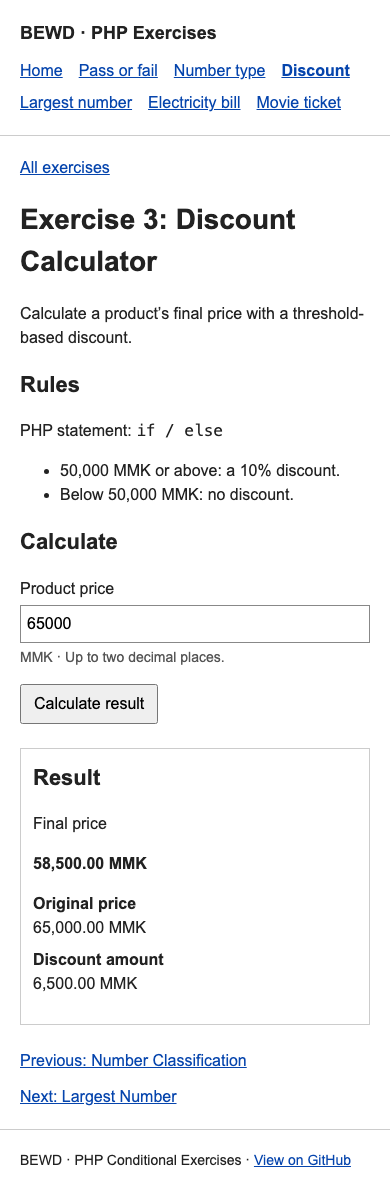
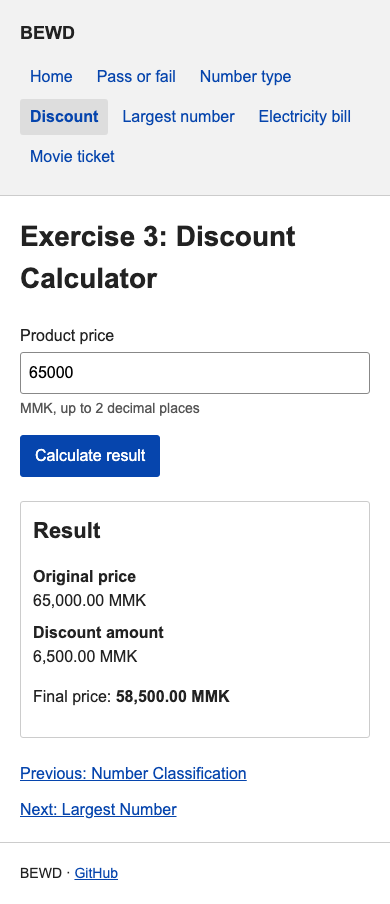
style: trim page content and refine basic styling

diff --git a/projects/php-conditionals/public/assets/css/styles.css b/projects/php-conditionals/public/assets/css/styles.css
@@ -10,33 +10,34 @@ body {
 }
 
 .container { max-width: 900px; margin: 0 auto; padding: 20px; }
-h1 { font-size: 28px; }
+h1 { font-size: 28px; margin: 0 0 24px; }
 h2 { font-size: 22px; }
 a { color: #0645ad; }
 :focus-visible { outline: 2px solid #0645ad; outline-offset: 3px; }
 
-.site-header { border-bottom: 1px solid #ccc; }
+.site-header { background: #f2f2f2; border-bottom: 1px solid #ccc; }
 .site-title { margin: 0 0 12px; font-size: 18px; font-weight: bold; }
-.exercise-nav { display: flex; flex-wrap: wrap; gap: 8px 16px; }
-.exercise-nav a[aria-current="page"] { font-weight: bold; text-decoration: underline; }
+.exercise-nav { display: flex; flex-wrap: wrap; gap: 4px; }
+.exercise-nav a { padding: 6px 10px; border-radius: 3px; text-decoration: none; }
+.exercise-nav a:hover { text-decoration: underline; }
+.exercise-nav a[aria-current="page"] { background: #ddd; font-weight: bold; }
 .site-footer { border-top: 1px solid #ccc; font-size: 14px; }
 .site-footer p { margin: 0; }
 
 .exercise-list { padding-left: 24px; }
 .exercise-list li { margin-bottom: 16px; }
-.exercise-list p { margin: 4px 0; }
 .form-field { margin-bottom: 16px; }
 .form-field label { display: block; margin-bottom: 4px; }
-.form-field input { width: 100%; max-width: 360px; padding: 6px; border: 1px solid #888; font: inherit; }
+.form-field input { width: 100%; max-width: 360px; padding: 8px; border: 1px solid #888; border-radius: 3px; font: inherit; }
 .field-hint { margin: 4px 0; font-size: 14px; color: #555; }
-.field-error, .error-summary { color: #a00; }
+.field-error { color: #a00; }
 .field-error { margin: 4px 0; }
 .form-field input[aria-invalid="true"] { border-color: #a00; }
-button { padding: 6px 12px; font: inherit; cursor: pointer; }
+button { padding: 8px 14px; background: #0645ad; color: white; border: 1px solid #0645ad; border-radius: 3px; font: inherit; cursor: pointer; }
+button:hover { background: #053987; }
 
-.result-panel { border: 1px solid #ccc; margin-top: 24px; padding: 12px; overflow-wrap: anywhere; }
+.result-panel { max-width: 480px; border: 1px solid #ccc; border-radius: 3px; margin-top: 24px; padding: 12px; overflow-wrap: anywhere; }
 .result-panel h2 { margin-top: 0; }
-.result-value { font-weight: bold; }
 .result-rows dt { font-weight: bold; }
 .result-rows dd { margin: 0 0 8px; }
 .page-navigation { display: flex; flex-wrap: wrap; justify-content: space-between; gap: 12px; margin-top: 24px; }

diff --git a/projects/php-conditionals/src/exercises.php b/projects/php-conditionals/src/exercises.php
@@ -2,7 +2,7 @@
 
 declare(strict_types=1);
 
-/** The catalogue supplies navigation, forms, and rule explanations from one place. */
+/** The catalogue supplies navigation and form definitions from one place. */
 function exercise_catalogue(): array
 {
     $integer = ['type' => 'integer'];
@@ -10,49 +10,36 @@ function exercise_catalogue(): array
     return [
         'pass-or-fail' => [
             'number' => '01', 'title' => 'Pass or Fail', 'nav' => 'Pass or fail',
-            'description' => 'See how one condition decides whether a student passes the exam.',
-            'syntax' => 'if / else', 'calculator' => 'calculate_pass_or_fail',
-            'rules' => ['A mark of 40 or above is a pass.', 'A mark below 40 is a fail.'],
-            'fields' => ['mark' => $integer + ['label' => 'Student mark', 'hint' => 'Enter a whole number from 0 to 100.', 'placeholder' => 'e.g. 75', 'min' => 0, 'max' => 100]],
+            'calculator' => 'calculate_pass_or_fail',
+            'fields' => ['mark' => $integer + ['label' => 'Student mark', 'hint' => '0–100, whole number', 'placeholder' => 'e.g. 75', 'min' => 0, 'max' => 100]],
         ],
         'number-classification' => [
             'number' => '02', 'title' => 'Number Classification', 'nav' => 'Number type',
-            'description' => 'Find out whether an integer is positive, negative, or zero.',
-            'syntax' => 'if / elseif / else', 'calculator' => 'calculate_number_classification',
-            'rules' => ['Greater than 0: Positive Number.', 'Less than 0: Negative Number.', 'Equal to 0: Zero.'],
-            'fields' => ['number' => $integer + ['label' => 'Your number', 'hint' => 'Enter any signed whole number.', 'placeholder' => 'e.g. −12']],
+            'calculator' => 'calculate_number_classification',
+            'fields' => ['number' => $integer + ['label' => 'Your number', 'hint' => 'Signed whole number', 'placeholder' => 'e.g. -12']],
         ],
         'discount-calculator' => [
             'number' => '03', 'title' => 'Discount Calculator', 'nav' => 'Discount',
-            'description' => 'Calculate a product’s final price with a threshold-based discount.',
-            'syntax' => 'if / else', 'calculator' => 'calculate_discount',
-            'rules' => ['50,000 MMK or above: a 10% discount.', 'Below 50,000 MMK: no discount.'],
-            'fields' => ['price' => ['type' => 'money', 'label' => 'Product price', 'hint' => 'MMK · Up to two decimal places.', 'placeholder' => 'e.g. 65000', 'min' => 0]],
+            'calculator' => 'calculate_discount',
+            'fields' => ['price' => ['type' => 'money', 'label' => 'Product price', 'hint' => 'MMK, up to 2 decimal places', 'placeholder' => 'e.g. 65000', 'min' => 0]],
         ],
         'largest-number' => [
             'number' => '04', 'title' => 'Largest Number', 'nav' => 'Largest number',
-            'description' => 'Compare two integers and find the larger one, or an exact match.',
-            'syntax' => 'if / else', 'calculator' => 'calculate_largest_number',
-            'rules' => ['Compare the first number with the second.', 'If they match, display “Both numbers are equal”.'],
+            'calculator' => 'calculate_largest_number',
             'fields' => [
-                'num1' => $integer + ['label' => 'First number', 'hint' => 'A signed whole number.', 'placeholder' => 'e.g. 24'],
-                'num2' => $integer + ['label' => 'Second number', 'hint' => 'A signed whole number.', 'placeholder' => 'e.g. 18'],
+                'num1' => $integer + ['label' => 'First number', 'hint' => 'Signed whole number', 'placeholder' => 'e.g. 24'],
+                'num2' => $integer + ['label' => 'Second number', 'hint' => 'Signed whole number', 'placeholder' => 'e.g. 18'],
             ],
         ],
         'electricity-bill' => [
             'number' => '05', 'title' => 'Electricity Bill', 'nav' => 'Electricity bill',
-            'description' => 'Select a rate from your usage and calculate the total bill in MMK.',
-            'syntax' => 'if / elseif / else', 'calculator' => 'calculate_electricity_bill',
-            'rules' => ['0–50 units: 35 MMK per unit.', '51–100 units: 50 MMK per unit.', '101–200 units: 75 MMK per unit.', '201–300 units: 100 MMK per unit.', 'Above 300 units: 150 MMK per unit.'],
-            'note' => 'The selected rate applies to every unit consumed. For example, 51 units × 50 MMK = 2,550 MMK. These are the assignment’s example rates.',
-            'fields' => ['units' => $integer + ['label' => 'Electricity units', 'hint' => 'Enter a nonnegative whole number.', 'placeholder' => 'e.g. 125', 'min' => 0, 'max' => intdiv(PHP_INT_MAX, 150)]],
+            'calculator' => 'calculate_electricity_bill',
+            'fields' => ['units' => $integer + ['label' => 'Electricity units', 'hint' => '0 or more, whole number', 'placeholder' => 'e.g. 125', 'min' => 0, 'max' => intdiv(PHP_INT_MAX, 150)]],
         ],
         'movie-ticket' => [
             'number' => '06', 'title' => 'Movie Ticket', 'nav' => 'Movie ticket',
-            'description' => 'Find the movie ticket price for any age, from children to seniors.',
-            'syntax' => 'if / elseif / else', 'calculator' => 'calculate_movie_ticket',
-            'rules' => ['Under 5: free admission.', 'Ages 5–12: 1,000 MMK.', 'Ages 13–17: 2,000 MMK.', 'Ages 18–59: 4,000 MMK.', 'Ages 60–69: 2,000 MMK.', 'Ages 70 and above: 1,000 MMK.'],
-            'fields' => ['age' => $integer + ['label' => 'Person’s age', 'hint' => 'Age in complete years, starting at 0.', 'placeholder' => 'e.g. 21', 'min' => 0]],
+            'calculator' => 'calculate_movie_ticket',
+            'fields' => ['age' => $integer + ['label' => 'Person’s age', 'hint' => '0 or more, whole years', 'placeholder' => 'e.g. 21', 'min' => 0]],
         ],
     ];
 }

diff --git a/projects/php-conditionals/templates/exercise.php b/projects/php-conditionals/templates/exercise.php
@@ -24,58 +24,35 @@ $position = array_search($currentExercise, $ids, true);
 require __DIR__ . '/header.php';
 ?>
 <main id="main" class="container">
-    <a href="<?= escape(app_url('index.php')) ?>">All exercises</a>
-    <h1>Exercise <?= escape((int) $exercise['number']) ?>: <?= escape($exercise['title']) ?></h1>
-    <p><?= escape($exercise['description']) ?></p>
+    <h1 id="exercise-title">Exercise <?= escape((int) $exercise['number']) ?>: <?= escape($exercise['title']) ?></h1>
 
-    <section aria-labelledby="rules-title">
-        <h2 id="rules-title">Rules</h2>
-        <p>PHP statement: <code><?= escape($exercise['syntax']) ?></code></p>
-        <ul>
-            <?php foreach ($exercise['rules'] as $rule): ?>
-                <li><?= escape($rule) ?></li>
-            <?php endforeach; ?>
-        </ul>
-        <?php if (isset($exercise['note'])): ?>
-            <p><?= escape($exercise['note']) ?></p>
-        <?php endif; ?>
-    </section>
-
-    <section aria-labelledby="calculator-title">
-        <h2 id="calculator-title">Calculate</h2>
-        <?php if ($errors !== []): ?>
-            <p class="error-summary" role="alert">Check the highlighted fields and try again.</p>
-        <?php endif; ?>
-        <form method="post" action="<?= escape(app_url('exercises/' . $currentExercise . '.php')) ?>" novalidate>
-            <?php foreach ($exercise['fields'] as $name => $field): ?>
-                <div class="form-field">
-                    <label for="<?= escape($name) ?>"><?= escape($field['label']) ?></label>
-                    <input type="text" inputmode="<?= $field['type'] === 'money' ? 'decimal' : (isset($field['min']) ? 'numeric' : 'text') ?>" name="<?= escape($name) ?>" id="<?= escape($name) ?>" value="<?= escape($submitted[$name] ?? '') ?>" placeholder="<?= escape($field['placeholder']) ?>" required aria-describedby="<?= escape($name) ?>-hint<?= isset($errors[$name]) ? ' ' . escape($name) . '-error' : '' ?>"<?= isset($errors[$name]) ? ' aria-invalid="true"' : '' ?>>
-                    <p class="field-hint" id="<?= escape($name) ?>-hint"><?= escape($field['hint']) ?></p>
-                    <?php if (isset($errors[$name])): ?>
-                        <p class="field-error" id="<?= escape($name) ?>-error"><?= escape($errors[$name]) ?></p>
-                    <?php endif; ?>
-                </div>
-            <?php endforeach; ?>
-            <button type="submit">Calculate result</button>
-        </form>
-    </section>
-
-    <section class="result-panel" aria-labelledby="result-title" aria-live="polite" aria-atomic="true">
-        <h2 id="result-title">Result</h2>
-        <?php if ($result !== null): ?>
-            <p><?= escape($result['caption']) ?></p>
-            <p class="result-value"><?= escape($result['headline']) ?></p>
-            <dl class="result-rows">
-                <?php foreach ($result['rows'] as $label => $value): ?>
-                    <dt><?= escape($label) ?></dt>
-                    <dd><?= escape($value) ?></dd>
-                <?php endforeach; ?>
-            </dl>
-        <?php else: ?>
-            <p>Your result will appear here after submitting valid values.</p>
-        <?php endif; ?>
-    </section>
+    <form method="post" action="<?= escape(app_url('exercises/' . $currentExercise . '.php')) ?>" aria-labelledby="exercise-title" novalidate>
+        <?php foreach ($exercise['fields'] as $name => $field): ?>
+            <div class="form-field">
+                <label for="<?= escape($name) ?>"><?= escape($field['label']) ?></label>
+                <input type="text" inputmode="<?= $field['type'] === 'money' ? 'decimal' : (isset($field['min']) ? 'numeric' : 'text') ?>" name="<?= escape($name) ?>" id="<?= escape($name) ?>" value="<?= escape($submitted[$name] ?? '') ?>" placeholder="<?= escape($field['placeholder']) ?>" required aria-describedby="<?= escape($name) ?>-hint<?= isset($errors[$name]) ? ' ' . escape($name) . '-error' : '' ?>"<?= isset($errors[$name]) ? ' aria-invalid="true"' : '' ?>>
+                <p class="field-hint" id="<?= escape($name) ?>-hint"><?= escape($field['hint']) ?></p>
+                <?php if (isset($errors[$name])): ?>
+                    <p class="field-error" id="<?= escape($name) ?>-error" role="alert"><?= escape($errors[$name]) ?></p>
+                <?php endif; ?>
+            </div>
+        <?php endforeach; ?>
+        <button type="submit">Calculate result</button>
+    </form>
+    <?php if ($result !== null): ?>
+        <section class="result-panel" aria-labelledby="result-title" aria-live="polite" aria-atomic="true">
+            <h2 id="result-title">Result</h2>
+            <?php if ($result['rows'] !== []): ?>
+                <dl class="result-rows">
+                    <?php foreach ($result['rows'] as $label => $value): ?>
+                        <dt><?= escape($label) ?></dt>
+                        <dd><?= escape($value) ?></dd>
+                    <?php endforeach; ?>
+                </dl>
+            <?php endif; ?>
+            <p><?php if ($result['label'] !== null): ?><?= escape($result['label']) ?>: <?php endif; ?><strong class="result-value"><?= escape($result['headline']) ?></strong></p>
+        </section>
+    <?php endif; ?>
 
     <nav class="page-navigation" aria-label="Previous and next exercise">
         <?php if ($position > 0): $previous = $ids[$position - 1]; ?>

diff --git a/projects/php-conditionals/src/helpers.php b/projects/php-conditionals/src/helpers.php
@@ -97,11 +97,11 @@ function format_mmk(int $amount, bool $inCents = false): string
 function result_view(string $id, array $result): array
 {
     return match ($id) {
-        'pass-or-fail' => ['headline' => $result['status'], 'caption' => 'Examination result', 'rows' => ['Student mark' => $result['mark'] . ' / 100', 'Pass threshold' => '40 / 100']],
-        'number-classification' => ['headline' => $result['classification'], 'caption' => 'Number classification', 'rows' => ['Your number' => format_integer($result['number'])]],
-        'discount-calculator' => ['headline' => format_mmk($result['final_price'], true), 'caption' => 'Final price', 'rows' => ['Original price' => format_mmk($result['price'], true), 'Discount amount' => format_mmk($result['discount'], true)]],
-        'largest-number' => ['headline' => $result['largest'] === null ? $result['message'] : format_integer($result['largest']), 'caption' => $result['largest'] === null ? 'A perfect match' : 'The larger number', 'rows' => ['First number' => format_integer($result['num1']), 'Second number' => format_integer($result['num2'])]],
-        'electricity-bill' => ['headline' => format_mmk($result['total']), 'caption' => 'Total electricity bill', 'rows' => ['Units consumed' => format_integer($result['units']), 'Rate per unit' => format_mmk($result['rate'])]],
-        'movie-ticket' => ['headline' => $result['ticket_price'] === 0 ? 'Free' : format_mmk($result['ticket_price']), 'caption' => 'Movie ticket price', 'rows' => ['Person’s age' => format_integer($result['age']) . ' years', 'Ticket price' => format_mmk($result['ticket_price'])]],
+        'pass-or-fail' => ['headline' => $result['status'], 'label' => null, 'rows' => []],
+        'number-classification' => ['headline' => $result['classification'], 'label' => null, 'rows' => []],
+        'discount-calculator' => ['headline' => format_mmk($result['final_price'], true), 'label' => 'Final price', 'rows' => ['Original price' => format_mmk($result['price'], true), 'Discount amount' => format_mmk($result['discount'], true)]],
+        'largest-number' => ['headline' => $result['largest'] === null ? $result['message'] : format_integer($result['largest']), 'label' => null, 'rows' => []],
+        'electricity-bill' => ['headline' => format_mmk($result['total']), 'label' => 'Total bill', 'rows' => ['Rate per unit' => format_mmk($result['rate'])]],
+        'movie-ticket' => ['headline' => $result['ticket_price'] === 0 ? 'Free' : format_mmk($result['ticket_price']), 'label' => 'Ticket price', 'rows' => ['Person’s age' => format_integer($result['age']) . ' years']],
     };
 }

diff --git a/projects/php-conditionals/templates/header.php b/projects/php-conditionals/templates/header.php
@@ -3,7 +3,7 @@
 <head>
     <meta charset="utf-8">
     <meta name="viewport" content="width=device-width, initial-scale=1">
-    <meta name="description" content="Practice PHP if, elseif, and else with six interactive exercises. Enter values, explore the rules, and see the results.">
+    <meta name="description" content="Six interactive PHP conditional exercises.">
     <title><?= escape($pageTitle) ?> · BEWD</title>
     <link rel="stylesheet" href="<?= escape(app_url('assets/css/styles.css')) ?>">
 </head>
@@ -11,7 +11,7 @@
 <a class="skip-link" href="#main">Skip to content</a>
 <header class="site-header">
     <div class="container">
-        <p class="site-title">BEWD · PHP Exercises</p>
+        <p class="site-title">BEWD</p>
         <nav class="exercise-nav" aria-label="Exercises">
             <a href="<?= escape(app_url('index.php')) ?>"<?= $currentExercise === null ? ' aria-current="page"' : '' ?>>Home</a>
             <?php foreach ($catalogue as $id => $item): ?>

diff --git a/projects/php-conditionals/public/index.php b/projects/php-conditionals/public/index.php
@@ -7,12 +7,10 @@ require __DIR__ . '/../templates/header.php';
 ?>
 <main id="main" class="container">
     <h1>PHP Conditional Exercises</h1>
-    <p>Choose an exercise to practice PHP’s <code>if</code>, <code>elseif</code>, and <code>else</code> statements. Enter values to calculate a result.</p>
     <ol class="exercise-list">
         <?php foreach ($catalogue as $id => $exercise): ?>
             <li>
                 <a href="<?= escape(app_url('exercises/' . $id . '.php')) ?>"><?= escape($exercise['title']) ?></a>
-                <p><?= escape($exercise['description']) ?></p>
             </li>
         <?php endforeach; ?>
     </ol>

diff --git a/projects/php-conditionals/templates/footer.php b/projects/php-conditionals/templates/footer.php
@@ -1,5 +1,5 @@
 <footer class="site-footer container">
-    <p>BEWD · PHP Conditional Exercises · <a href="https://github.com/shayyz-code/bewd">View on GitHub</a></p>
+    <p>BEWD · <a href="https://github.com/shayyz-code/bewd">GitHub</a></p>
 </footer>
 </body>
 </html>

diff --git a/projects/php-conditionals/README.md b/projects/php-conditionals/README.md
@@ -38,13 +38,13 @@ php-conditionals/
 └── docs/             # Original brief and browser screenshots
 ```
 
-Each exercise entry point selects its catalogue key and loads the shared page. The catalogue provides labels, rules, fields, navigation, and the calculation function. Calculation functions return data; templates render it with HTML escaping.
+Each exercise entry point selects its catalogue key and loads the shared page. The catalogue provides labels, fields, navigation, and the calculation function. Calculation functions return data; templates render it with HTML escaping. Pages show only titles, forms, and results; the full rules remain in this README and the original assignment.
 
 Forms accept decimal prices with at most two fractional digits. Internally, `$price` is stored in integer cents; the threshold is `50_000 * 100`. Discounts round half up to the nearest cent, and every monetary result includes two decimal places and `MMK`. This keeps calculations and formatting exact without floating-point arithmetic.
 
 Integers must fit PHP’s signed integer range. Money must fit that range in cents. Electricity units are capped at `intdiv(PHP_INT_MAX, 150)` to keep the maximum bill within the same range. Invalid or missing values produce field-specific errors and retain the submitted text. Commas and scientific notation are not accepted as numeric input.
 
-The app stores no user data and needs no database, session, framework, or client-side script. A small local stylesheet provides a white background, Arial text, basic forms, and a single-column layout.
+The app stores no user data and needs no database, session, framework, or client-side script. A small local stylesheet provides Arial text, a grey navbar, blue buttons, bordered inputs, and a single-column layout.
 
 ## Verification
 
@@ -57,7 +57,7 @@ find projects/php-conditionals -name '*.php' -print0 | xargs -0 -n 1 php -l
 
 The test runner exits nonzero on failure. It covers pass/fail, every number classification, discount rounding and thresholds, comparisons and equality, all electricity and movie-ticket boundaries, blank/malformed/array inputs, range limits, exact money formatting, HTML escaping, and URL generation.
 
-Browser verification covers valid and invalid POST submissions, retained inputs, escaped HTML, navigation, and horizontal overflow at 320, 390, 768, and 1440 pixel viewport widths. The screenshots below were captured from the running PHP application.
+Browser verification covers valid and invalid POST submissions, retained inputs, escaped HTML, navigation, and result visibility after validation. Forms and results were checked for horizontal overflow at 320, 390, 768, and 1440 pixel viewport widths. The screenshots below were captured from the running PHP application.
 
 ## Screenshots
 

diff --git a/README.md b/README.md
@@ -26,7 +26,7 @@ The home page lists all six exercises with basic styling.
 
 ![PHP exercise home page](projects/php-conditionals/docs/screenshots/home-desktop.png)
 
-Each page accepts values and explains the rule behind the result.
+Each page contains a form and displays its result after a valid submission.
 
 ![Electricity calculation result](projects/php-conditionals/docs/screenshots/electricity-result-desktop.png)
 
